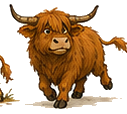
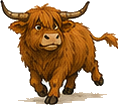
Rework cover: reserve fence-breakout for story, use standing Rocky
Cover v2 shows Rocky as the smug scene-stealer (advancing or standing/
chewing variants) rather than the fence escape, which belongs in the
story interior. Cleaned character cutouts to largest-component only.

Claude-Session: https://claude.ai/code/session_01Nm6TZyLSCgBSahM5ZRqHTG

diff --git a/picture-book/cover-dev/comp-v2.html b/picture-book/cover-dev/comp-v2.html
@@ -1,0 +1,83 @@
+<!DOCTYPE html>
+<html>
+<head>
+<meta charset="utf-8">
+<link rel="stylesheet" href="../fonts.css">
+<style>
+  body { margin: 0; background: #666; font-family: Literata, Georgia, serif; }
+  .f { width: 1000px; height: 1000px; margin: 12px auto; position: relative; overflow: hidden; }
+  .f svg { display: block; width: 100%; height: 100%; }
+</style>
+</head>
+<body>
+<script>
+/* Cover v2 — the fence-breakout is now RESERVED for the story interior.
+   Cover shows Rocky as the smug scene-stealer standing his ground:
+   "big, shaggy, trouble." Will + Cleo watch, lower-left. Same painted
+   depth (far/mid/near hills, one low-right sun, lower-left shadows,
+   frame-breaking grass). Title = Literata placeholder for lettering stage.
+   Atmosphere held at soft-dusk A (still open: A/B/C). */
+
+function comp(id, rocky, ry, rw, rh, rx) {
+  const sky = [[0, '#C9DCE4'], [0.38, '#EED9B4'], [0.62, '#F2C29B']];
+  return `
+  <div class="f" id="${id}">
+  <svg viewBox="0 0 1000 1000" xmlns="http://www.w3.org/2000/svg" xmlns:xlink="http://www.w3.org/1999/xlink">
+    <defs>
+      <linearGradient id="sky-${id}" x1="0" y1="0" x2="0" y2="1">
+        ${sky.map(([o, c]) => `<stop offset="${o}" stop-color="${c}"/>`).join('')}
+      </linearGradient>
+      <filter id="soft-${id}" x="-60%" y="-60%" width="220%" height="220%"><feGaussianBlur stdDeviation="8"/></filter>
+    </defs>
+    <rect width="1000" height="1000" fill="url(#sky-${id})"/>
+
+    <!-- sun low-right -->
+    <circle cx="850" cy="290" r="118" fill="#F7D9A0" opacity="0.30"/>
+    <circle cx="850" cy="290" r="52" fill="#F7D9A0" opacity="0.95"/>
+
+    <!-- far hill (cooler+lighter) → mid → near -->
+    <path d="M0 560 Q 250 480 520 530 T 1000 520 L1000 1000 L0 1000 Z" fill="#B4BFA0"/>
+    <rect x="0" y="440" width="1000" height="210" fill="#EED9B4" opacity="0.32"/>
+    <path d="M0 640 Q 320 560 640 630 T 1000 700 L1000 1000 L0 1000 Z" fill="#7E9A5E"/>
+    <path d="M0 830 Q 300 790 620 820 T 1000 860 L1000 1000 L0 1000 Z" fill="#55703F"/>
+
+    <!-- cast shadows to lower-LEFT (sun is low-right) -->
+    <ellipse cx="${rx + rw*0.34}" cy="905" rx="${rw*0.42}" ry="30" fill="#3E5530" opacity="0.30" filter="url(#soft-${id})"/>
+    <ellipse cx="150" cy="910" rx="100" ry="19" fill="#3E5530" opacity="0.30" filter="url(#soft-${id})"/>
+    <ellipse cx="330" cy="915" rx="64" ry="14" fill="#3E5530" opacity="0.30" filter="url(#soft-${id})"/>
+
+    <!-- ROCKY, standing his ground, the scene-stealer -->
+    <image href="assets/${rocky}" x="${rx}" y="${ry}" width="${rw}" height="${rh}" preserveAspectRatio="xMidYMid meet"/>
+
+    <!-- WILL + CLEO watching, lower-left -->
+    <image href="assets/will-15-cut.png" x="70" y="672" width="232" height="236.7" preserveAspectRatio="xMidYMid meet"/>
+    <g transform="translate(392 800) scale(-1,1)">
+      <image href="assets/cleo-05-cut.png" x="0" y="0" width="126" height="121" preserveAspectRatio="xMidYMid meet"/>
+    </g>
+
+    <!-- foreground grass breaking the frame edge -->
+    <g fill="#55703F">
+      <path d="M18 1000 q-6 -70 20 -110 q8 52 12 110 Z" opacity="0.9"/>
+      <path d="M58 1000 q12 -58 40 -80 q-8 42 -14 80 Z" opacity="0.85"/>
+      <path d="M905 1000 q-8 -76 22 -118 q10 54 14 118 Z" opacity="0.9"/>
+      <path d="M952 1000 q14 -60 42 -84 q-10 44 -16 84 Z" opacity="0.85"/>
+    </g>
+
+    <!-- title PLACEHOLDER (hand-lettering to follow) -->
+    <g font-family="Literata, Georgia, serif" fill="#2B2520">
+      <text x="72" y="150" font-size="86" font-weight="700" letter-spacing="-1">Will <tspan font-style="italic" font-weight="400" font-size="56">and the</tspan></text>
+      <text x="72" y="248" font-size="86" font-weight="700" letter-spacing="-1">Missing</text>
+      <text x="72" y="346" font-size="86" font-weight="700" letter-spacing="-1">Highland Cow</text>
+    </g>
+    <text x="72" y="958" font-family="Literata, Georgia, serif" font-style="italic" font-size="30" fill="#4A3F33">Kris Pierce &amp; Will Pierce</text>
+  </svg>
+  </div>`;
+}
+
+/* rocky-14: standing, chewing a stolen sprig, faces left (toward Will/Cleo) */
+document.write(comp('graze', 'rocky-14-cut.png', 400, 512, 504, 318));
+/* rocky-16: advancing on the viewer, chest-first, cheeky */
+document.write(comp('advance', 'rocky-16-cut.png', 430, 520, 466, 320));
+</script>
+</body>
+</html>